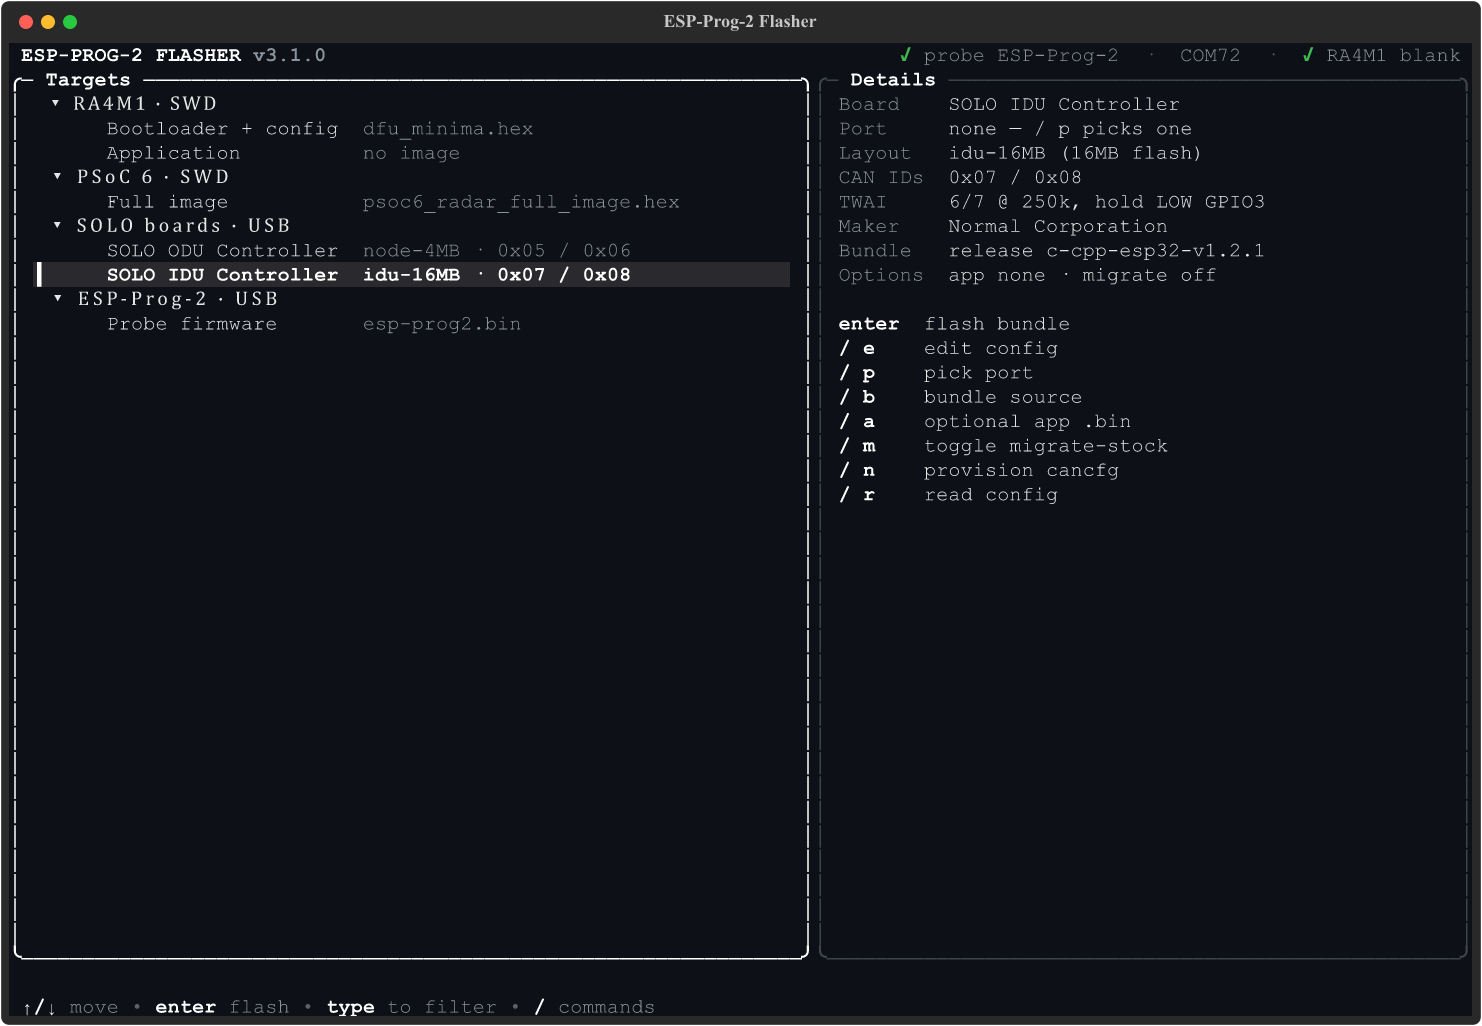
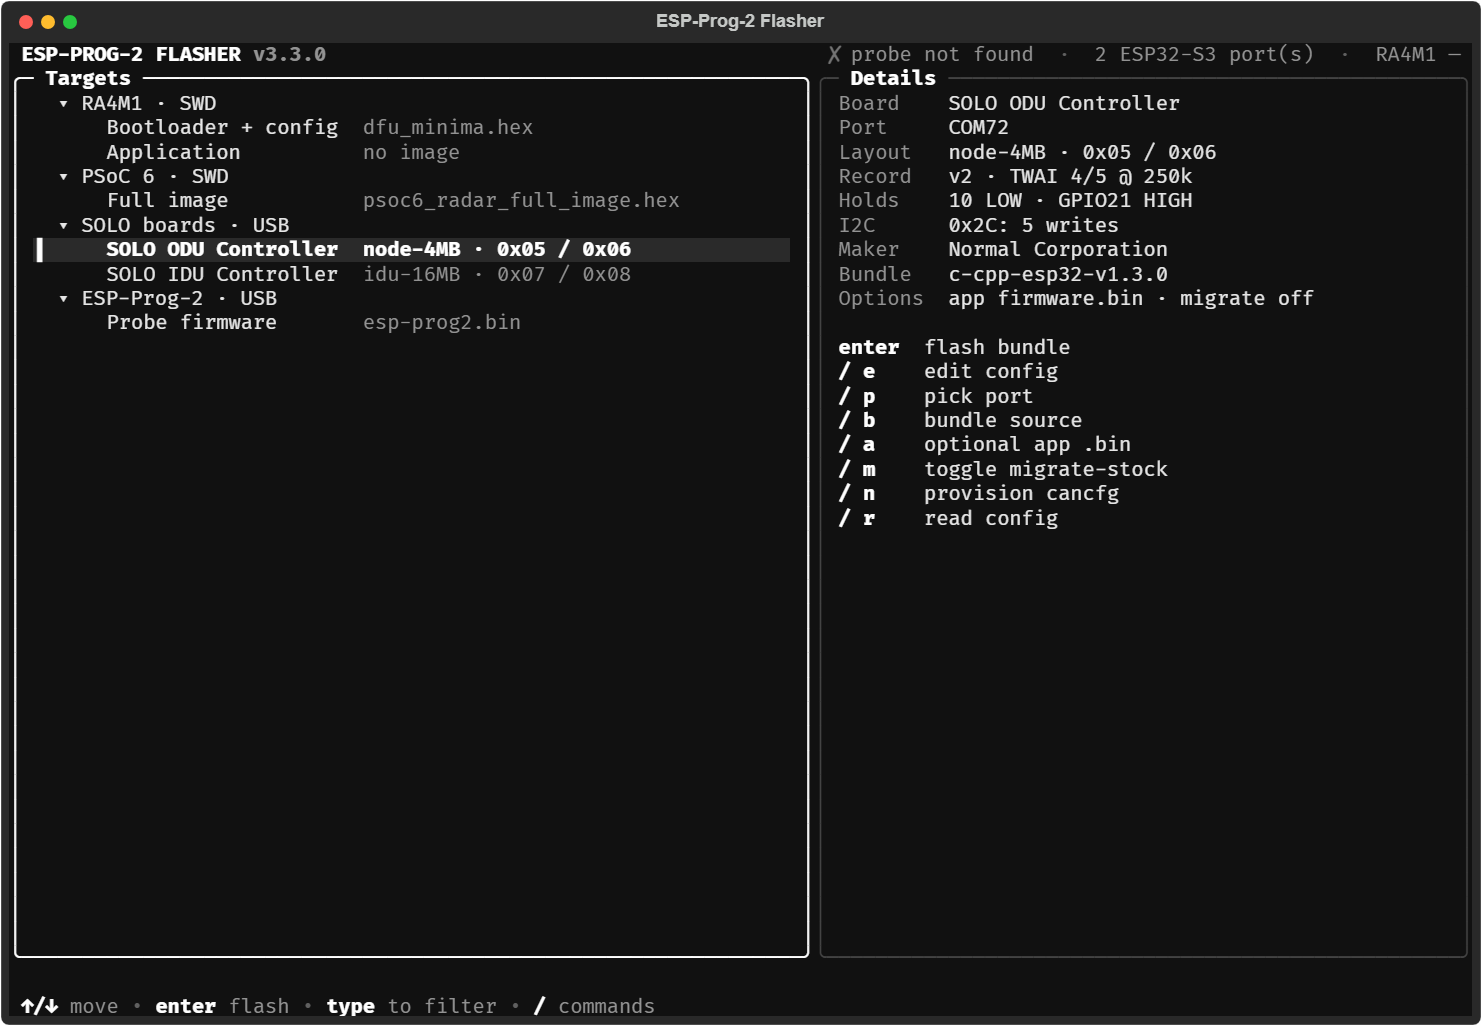
Release 3.3.0: move a running SOLO board into download mode itself (#36)
* Read esptool 5 progress lines so the progress bar moves

esptool 5 prints "11.2% 16384/146216 bytes" instead of "(11 %)", so the
old pattern never matched and every esptool job sat at 0%. Match the
esptool 5 line in one module constant, tested against real 5.3.0 output.

Fixes #35

* Re-capture the TUI screenshots and demo GIF at 3.3.0

Capture the dashboard, the "/" popup and the SOLO flash confirm with
Textual's screenshot export, driving the real TUI against a SOLO ODU on
the bench: record v2 with the ODU's safe holds and five EMC2305 writes.
The demo GIF ends in a real --flash-solo odu run (bundle
c-cpp-esp32-v1.3.0 plus the ODU app), showing the 1200-baud touch, the
moving progress bar and the reboot.

Fixes #29

* Release 3.3.0: move a running SOLO board into download mode itself

Bump the version to 3.3.0. The README says which port to pass to the
node and SOLO commands: a board running its firmware is restarted into
ROM download mode with a 1200-baud touch and followed to its new port;
a blank board still needs BOOT held.

Refs #30, #32, #35

---------

diff --git a/tests/test_flasher.py b/tests/test_flasher.py
@@ -14,7 +14,8 @@ Covers:       flash_solo (both presets, migrate-stock erase, app + otadata, --af
               the injected port/touch/clock seams (a running board followed by its MAC to its
               ROM port for every esptool call, a ROM port never appearing failing before
               esptool, an already-ROM, serial-less, non-MAC or unlisted port used as given),
-              the hold-BOOT guidance on an esptool failure, load_solo_bundle,
+              the hold-BOOT guidance on an esptool failure, the esptool 5 progress lines that
+              drive the progress bar, load_solo_bundle,
               otadata_selecting_ota0, fetch_solo_bundle (success, missing release, missing gh,
               no asset).
 Not covered:  real esptool runs against a board, a real 1200-baud touch or port listing, the
@@ -49,6 +50,7 @@ from esp_prog2_flasher.flasher import (
     DEFAULT_BAUD_RATE,
     ESP32S3_USB_JTAG_PID,
     ESP_PROG_VID,
+    ESPTOOL_PROGRESS,
     NODE_CHIP,
     NODE_ROM_PORT_TIMEOUT_S,
     BundleError,
@@ -919,3 +921,35 @@ def test_fetch_reports_missing_gh(tmp_path: Path) -> None:
 def test_fetch_reports_no_asset(tmp_path: Path) -> None:
     with pytest.raises(BundleError, match="got 0"):
         fetch_solo_bundle("c-cpp-esp32-v1.2.1", tmp_path, run_gh=_fake_gh())
+
+
+@pytest.mark.parametrize(
+    ("line", "percent"),
+    [
+        ("Writing at 0x00020000 [                              ]   0.0% 0/146216 bytes...", 0.0),
+        (
+            "Writing at 0x0002c88d [==>                           ]  11.2% 16384/146216 bytes...",
+            11.2,
+        ),
+        (
+            "Writing at 0x00fe23b0 [==============================] 100.0% 146216/146216 bytes...",
+            100.0,
+        ),
+        ("Reading from 0x00011088 [==============================] 100.0% 136/136 bytes...", 100.0),
+    ],
+)
+def test_esptool_progress_reads_esptool_5_progress_lines(line: str, percent: float) -> None:
+    match = ESPTOOL_PROGRESS.search(line)
+    assert match is not None
+    assert float(match.group(1)) == percent
+
+
+@pytest.mark.parametrize(
+    "line",
+    [
+        "Wrote 271280 bytes (146216 compressed) at 0x00020000 in 1.6 seconds (1352.7 kbit/s).",
+        "Hash of data verified.",
+    ],
+)
+def test_esptool_progress_ignores_other_esptool_lines(line: str) -> None:
+    assert ESPTOOL_PROGRESS.search(line) is None

diff --git a/src/esp_prog2_flasher/flasher.py b/src/esp_prog2_flasher/flasher.py
@@ -175,6 +175,9 @@ _DOWNLOAD_MODE_HINT: Final[str] = (
     "download-mode port; it has a different COM number."
 )
 
+# esptool 5's progress line: "Writing at 0x0002c88d [==>   ]  11.2% 16384/146216 bytes...".
+ESPTOOL_PROGRESS: Final[re.Pattern[str]] = re.compile(r"(\d+(?:\.\d+)?)% \d+/\d+ bytes")
+
 ProgressCallback = Callable[[float], None]
 LogCallback = Callable[[str], None]
 # Runs one esptool argv and returns its exit code. Injected so tests can capture the
@@ -856,7 +859,6 @@ def _run_esptool(
 
     Returns esptool's exit code; callers turn a non-zero code into their own error.
     """
-    percent = re.compile(r"\((\d+)\s*%\)")
     proc = subprocess.Popen(
         args, stdout=subprocess.PIPE, stderr=subprocess.STDOUT, text=True, bufsize=1
     )
@@ -865,7 +867,7 @@ def _run_esptool(
         line = line.rstrip()
         if line and log:
             log(line)
-        match = percent.search(line)
+        match = ESPTOOL_PROGRESS.search(line)
         if match and progress:
             with contextlib.suppress(ValueError):
                 progress(float(match.group(1)))

diff --git a/src/esp_prog2_flasher/__init__.py b/src/esp_prog2_flasher/__init__.py
@@ -9,4 +9,4 @@ Not here:    flashing logic (flasher.py), CLI parsing (cli.py), the TUI (app.py)
 Depends on:  nothing.
 """
 
-__version__ = "3.2.0"
+__version__ = "3.3.0"

diff --git a/README.md b/README.md
@@ -1,6 +1,6 @@
 # ESP-Prog-2 Flasher
 
-A `uv`-run Python **TUI/CLI** (v3.1.0) for flashing Normal Corporation's boards. A
+A `uv`-run Python **TUI/CLI** (v3.3.0) for flashing Normal Corporation's boards. A
 keyboard-driven dashboard (or headless flags) covers four jobs:
 
 ![ESP-Prog-2 Flasher dashboard: filter, "/" commands, SOLO flash wizard, run view](docs/images/tui-demo.gif)
@@ -333,6 +333,29 @@ uv run esp-prog2-flasher --read-node-config --port COM7
   when the record is absent or invalid. A v2 record adds its hold-HIGH mask and
   I2C safe writes when it has them, e.g. `..., hold-HIGH mask 0x200000, I2C SDA
   GPIO8 SCL GPIO9 @ 0x2C: 0x30=0x00 0x40=0x00 ...`. The TUI's `/ r` shows the same.
+- Both keep the chip in download mode between esptool runs (`--after no-reset`)
+  and end with the same watchdog reset as `--flash-solo`, so the board reboots
+  into its firmware once, at the end.
+
+### Which port to pass
+
+A SOLO board has no DTR/RTS reset circuit, so esptool cannot reset it into ROM
+download mode by itself. Pass the port the board shows **while running its
+firmware**; `--provision-node`, `--read-node-config` and `--flash-solo` (and the
+TUI) then move it there themselves:
+
+- **Running app, or factory updater from `c-cpp-esp32-v1.2.1`:** its USB serial
+  is the MAC as bare hex digits (`94A990F0DB1C`). The tool opens the port at
+  1200 baud with DTR and RTS low and closes it; the firmware restarts into ROM
+  download mode, which comes back as a **new** port whose serial is the same
+  MAC with colons (`94:A9:90:F0:DB:1C`). The tool follows the board to that
+  port by its MAC (never by VID:PID alone), logs `COM71 -> ROM download port
+  COM63`, and runs every esptool step there.
+- **Already in ROM download mode** (serial with colons): used as given.
+- **Blank board, or an updater older than v1.2.1:** nothing answers the touch.
+  After 10 s the tool stops before esptool runs: hold **BOOT** while plugging
+  the board in (or resetting it), then rerun with the download-mode port,
+  which has a different COM number.
 
 ## SOLO boards (ESP32-S3)
 
@@ -340,7 +363,8 @@ uv run esp-prog2-flasher --read-node-config --port COM7
 port. It writes the Embedded-CAN-Bootloaders "one updater" release bundle
 (`esp32s3-can-updater-<version>.zip`: one bootloader and CAN updater for every
 board, a partition table per flash layout, `manifest.json`) plus the board's
-`cancfg`. `--port` is required and never auto-detected.
+`cancfg`. `--port` is required and never auto-detected; see
+[Which port to pass](#which-port-to-pass).
 
 `cancfg` (`0x11000`, 4 KB) holds the 80-byte v2 device config block (name and
 CAN ID pair), then at `+0x50` a **board-profile record**, then `0xFF`. Older
